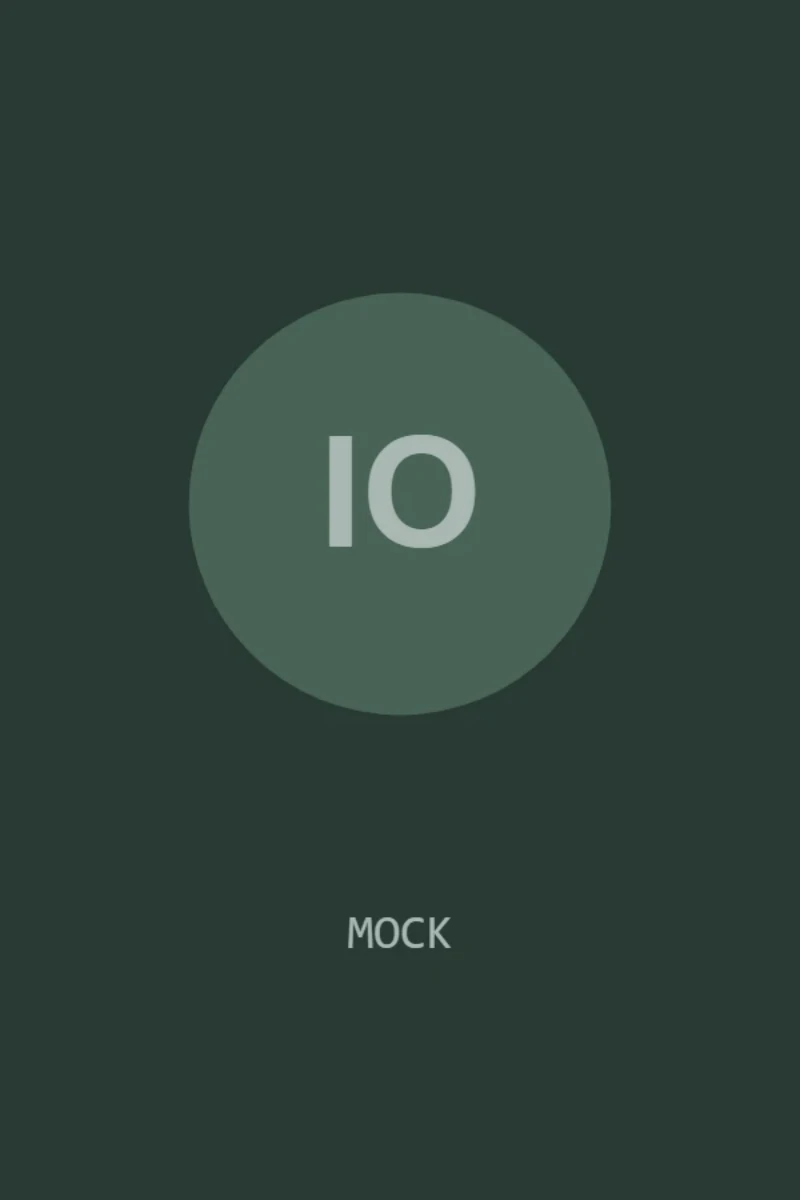
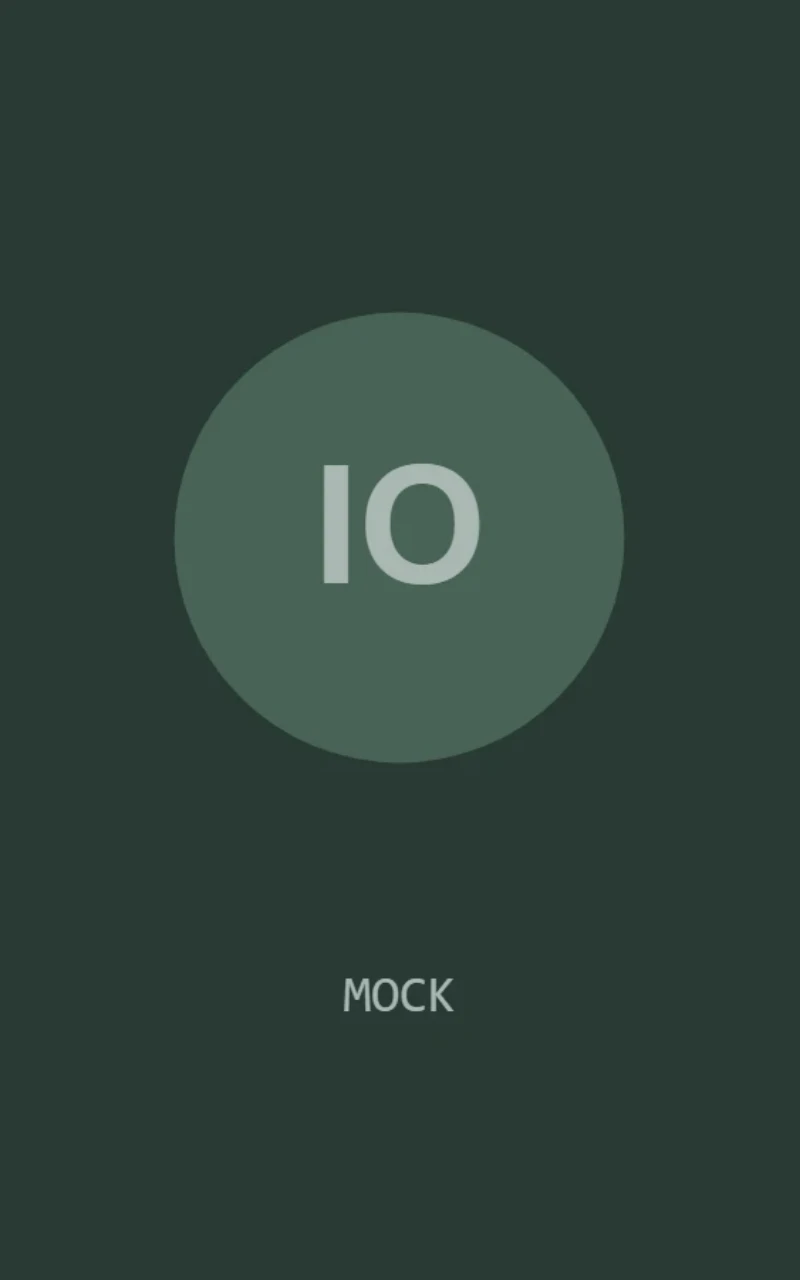
design: drop the repeated label and make the cards taller
The section said Team twice - once as "04 TEAM" above the heading and once as the heading itself.
The label is gone entirely, number included: with the word removed the number stood alone and said
nothing on its own.

Projects keeps its label, and the difference is the point. There the heading is the project's name,
so "02 PROJECTS" tells the reader something the heading does not. A label belongs where it adds
information, not where it repeats.

SectionLabel itself is unchanged. It briefly grew an optional-label branch for this, which was the
wrong shape - an API path with no caller is a dead branch waiting to be misused. Team simply does
not render one.

The portrait box goes from 2/3 to 5/8, so a card is 397x636 rather than 397x596. Widths stay 400
and 800; both still divide cleanly into the new ratio, giving 400x640 and 800x1280 with no half
pixels.

Deliberately unchanged: no colour, no type scale, no content, no schema, no CI and no threshold.
Payload is unchanged at 132.6 KiB. Projects, Nav and Footer were not touched.

Checked with pnpm gates end to end: 29 unit tests, 123 e2e passed and 13 skipped by viewport.
Looked at on desktop at 1440, hovered and at rest.

diff --git a/components/sections/team/Team.tsx b/components/sections/team/Team.tsx
@@ -1,5 +1,5 @@
 import type { Site, TeamMember } from "@/content";
-import { Container, SectionLabel } from "@/components/ui";
+import { Container } from "@/components/ui";
 import { TeamCard } from "./TeamCard";
 
 type NavItem = Site["nav"][number];
@@ -12,6 +12,10 @@ type NavItem = Site["nav"][number];
  *
  * Baslik metni uydurulmuyor: nav etiketi content/site.ts'ten geliyor, ikinci
  * kez yazilmiyor. Bolum h2, kartlar h3 - seviye atlanmiyor (§7.1).
+ *
+ * SectionLabel YOK. "04 TEAM" etiketi ile "Team" basligi ayni kelimeyi iki kez
+ * soyluyordu; numara da tek basina kaldiginda bir sey anlatmiyordu. Projects'te
+ * etiket duruyor cunku orada baslik proje adi ve etiket bilgi katiyor.
  *
  * `members` bossa bolum HIC render edilmez - bos cerceve veya "coming soon"
  * yok (CLAUDE.md kural 6). Karar cagiran tarafta: app/page.tsx.
@@ -26,8 +30,6 @@ export function Team({ section, members }: { section: NavItem; members: TeamMemb
     <section id={section.id} aria-labelledby={headingId}>
       <Container>
         <div className="reveal-on-enter flex flex-col gap-10 py-section lg:gap-14 lg:py-section-lg">
-          <SectionLabel number={section.number}>{section.label}</SectionLabel>
-
           <h2
             id={headingId}
             className="font-sans text-display-l font-semibold lg:text-display-l-lg"

diff --git a/components/sections/team/TeamCard.tsx b/components/sections/team/TeamCard.tsx
@@ -6,7 +6,7 @@ import { BioTypewriter } from "./BioTypewriter";
 /**
  * Tek kisi karti. docs/design-spec.md §3.5
  *
- * KART FOTOGRAFIN KENDISI. Kutu 4/5 oraninda ve goruntu onu tamamen kapliyor;
+ * KART FOTOGRAFIN KENDISI. Kutu 5/8 oraninda ve goruntu onu tamamen kapliyor;
  * ad ve rol altta, goruntunun uzerinde duruyor. Hover'da goruntu hayaletlesiyor
  * ve biyografi ustunde beliriyor.
  *
@@ -43,7 +43,7 @@ export function TeamCard({ member }: { member: TeamMember }) {
         sizes="(min-width: 1024px) 398px, (min-width: 640px) calc(50vw - 36px), calc(100vw - 40px)"
         alt={member.name}
         width={800}
-        height={1200}
+        height={1280}
         loading="lazy"
         decoding="async"
         className="absolute inset-0 h-full w-full object-cover"

diff --git a/lib/images.ts b/lib/images.ts
@@ -17,7 +17,7 @@ import kinds from "./image-widths.json";
  *               -> 1x icin 400, 2x icin 800.
  *
  * Her genislik kendi en-boy oranina tam bolunuyor; yarim piksel yok
- * (720x450, 1440x900, 400x600, 800x1200).
+ * (720x450, 1440x900, 400x640, 800x1280).
  *
  * Kaynaklar servis EDILMIYOR: assets/ altinda duruyorlar ve hicbir cihazin
  * ihtiyaci olmayan boyutlardalar.

diff --git a/app/tokens.css b/app/tokens.css
@@ -97,7 +97,7 @@
      ustune yaziyor ve kayit tek. Deger degismedi. */
   --max-width-prose: 65ch;
   --aspect-screenshot: 16 / 10;
-  --aspect-portrait: 2 / 3;
+  --aspect-portrait: 5 / 8;
 }
 
 /* Navbar yuksekligi breakpoint'e gore degistigi icin @theme disinda,

diff --git a/docs/design-spec.md b/docs/design-spec.md
@@ -219,7 +219,12 @@ bırakıyor; alternatifi mobilden `lg`'ye kadar tek kolon tutmaktı ve o da tabl
 uzun bir şerit üretirdi. Kolon sayısı **içerikten değil breakpoint'ten** gelir; kişi sayısı
 değişirse bu tablo yeniden düşünülür, `grid-cols` içeriğe göre hesaplanmaz.
 
-**Kart fotoğrafın kendisidir.** Kutu **2/3** oranında (token: `--aspect-portrait`) ve görüntü onu
+**`SectionLabel` yok.** "04 TEAM" etiketi ile "Team" başlığı aynı kelimeyi iki kez söylüyordu;
+numara tek başına kaldığında da bir şey anlatmıyordu. Projects'te etiket duruyor, çünkü orada
+başlık proje adı ve "02 PROJECTS" bilgi katıyor. Etiket, tekrar ettiği yerde değil **bilgi kattığı
+yerde** durur.
+
+**Kart fotoğrafın kendisidir.** Kutu **5/8** oranında (token: `--aspect-portrait`) ve görüntü onu
 tamamen kaplar; ad, rol ve linkler görüntünün alt kenarında, üzerinde durur. Hover'da görüntü
 hayaletleşir ve biyografi üstünde belirir.
 
